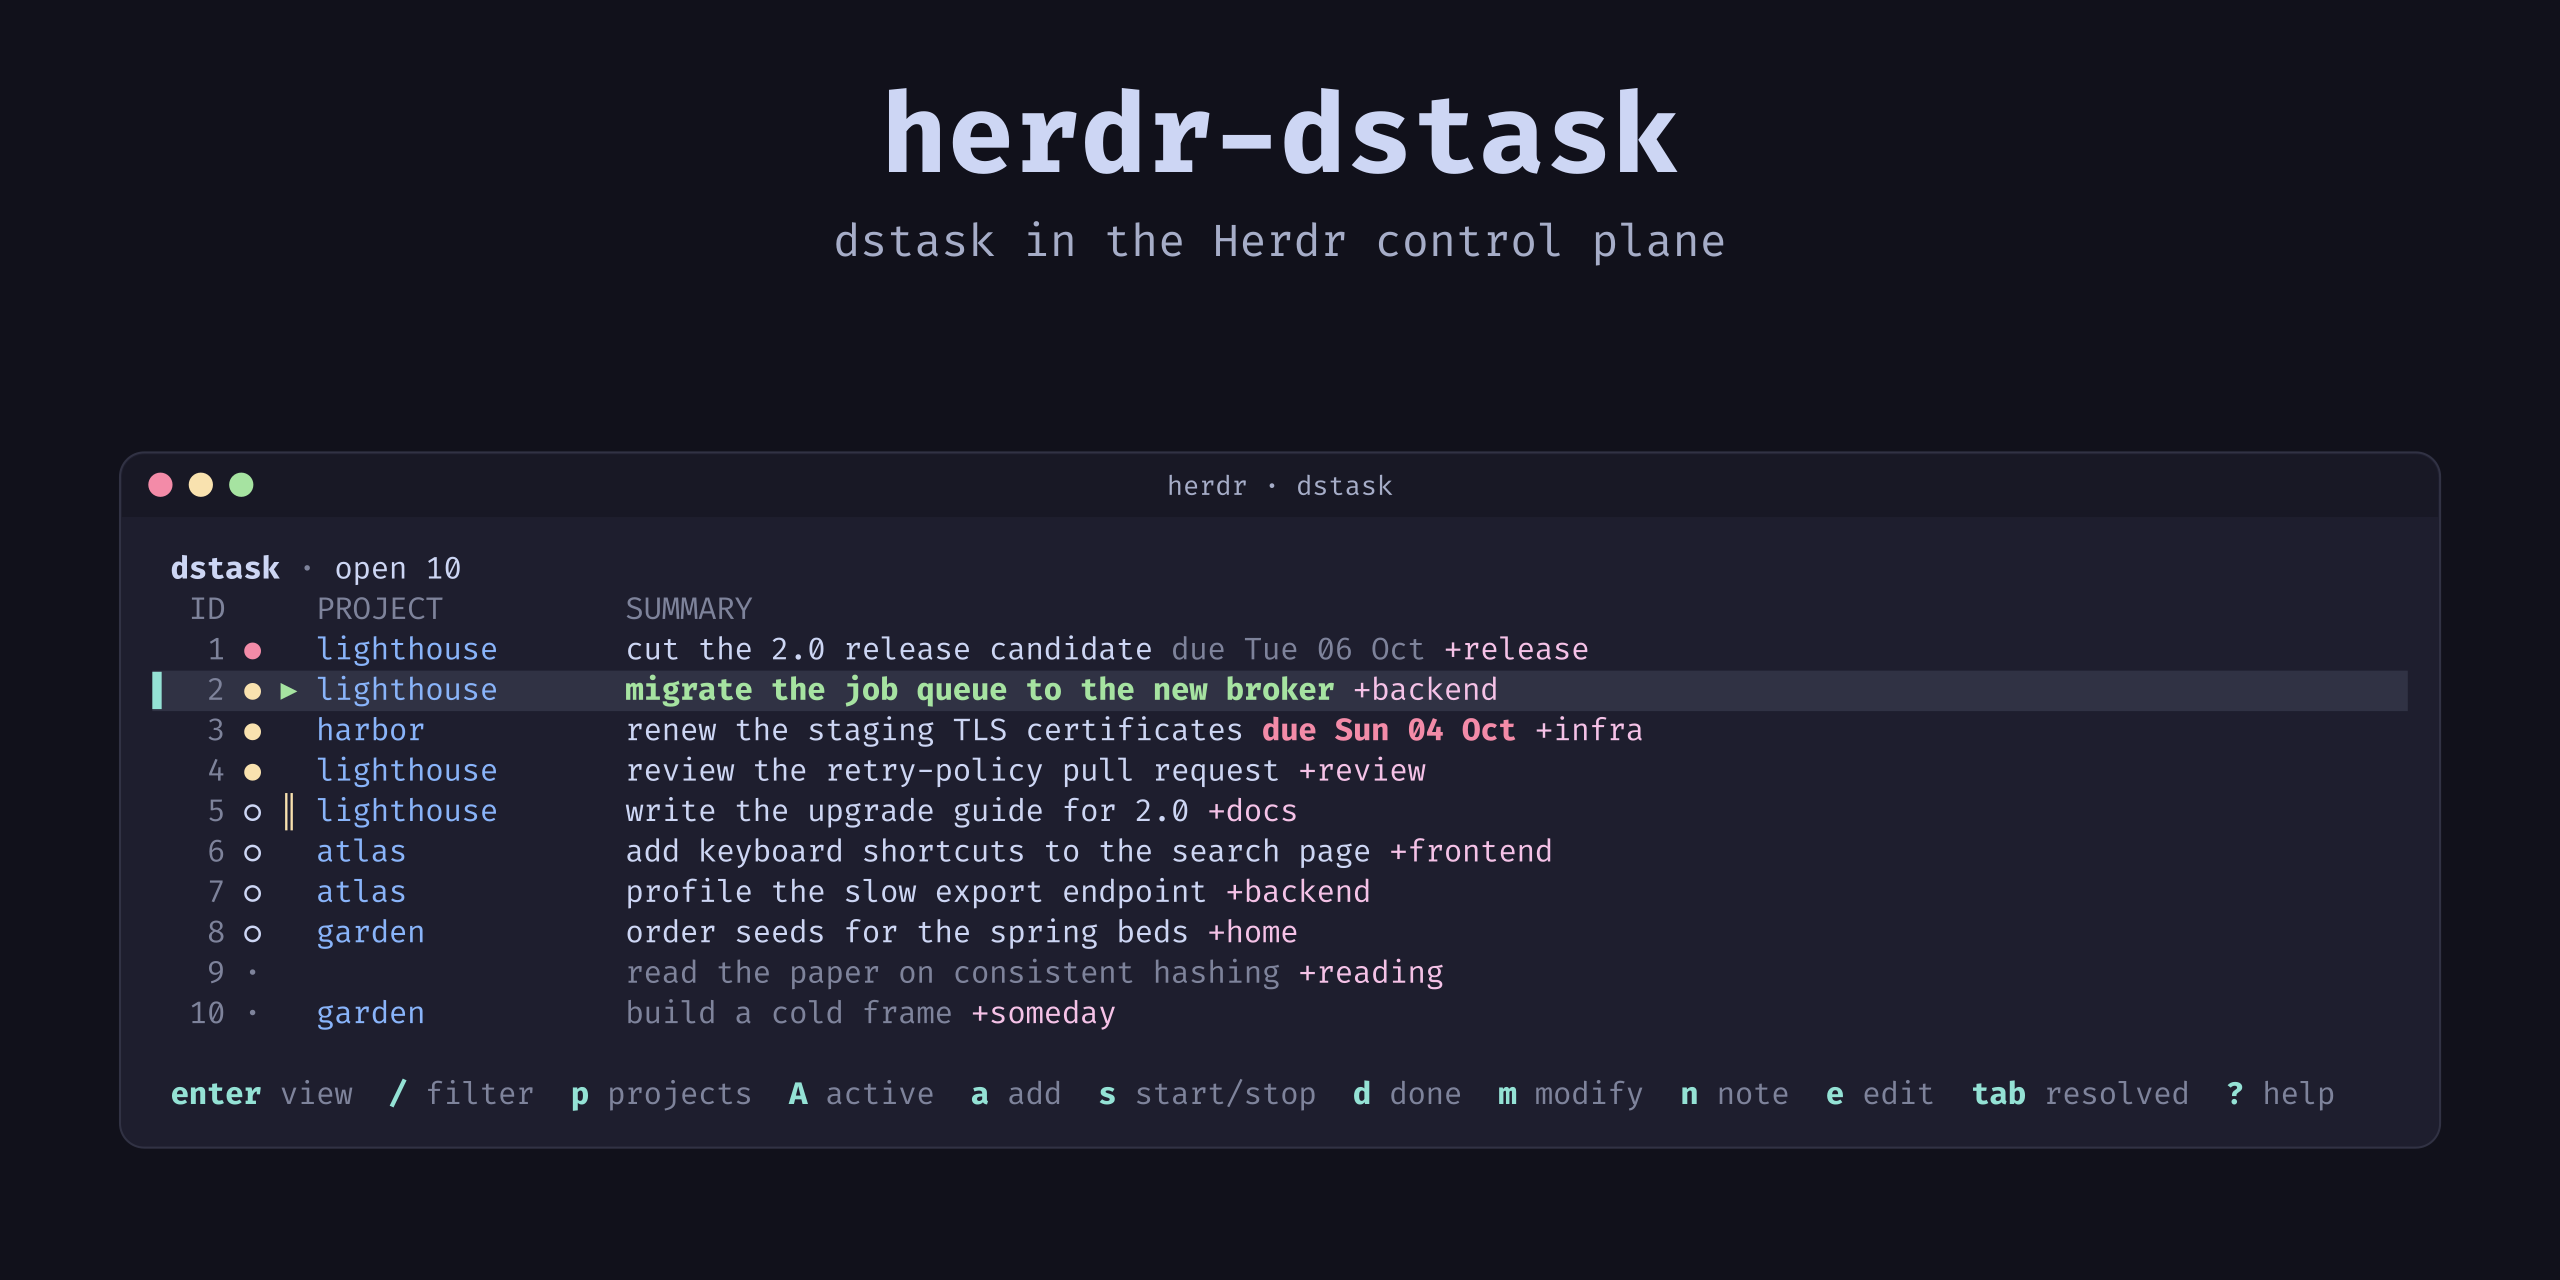
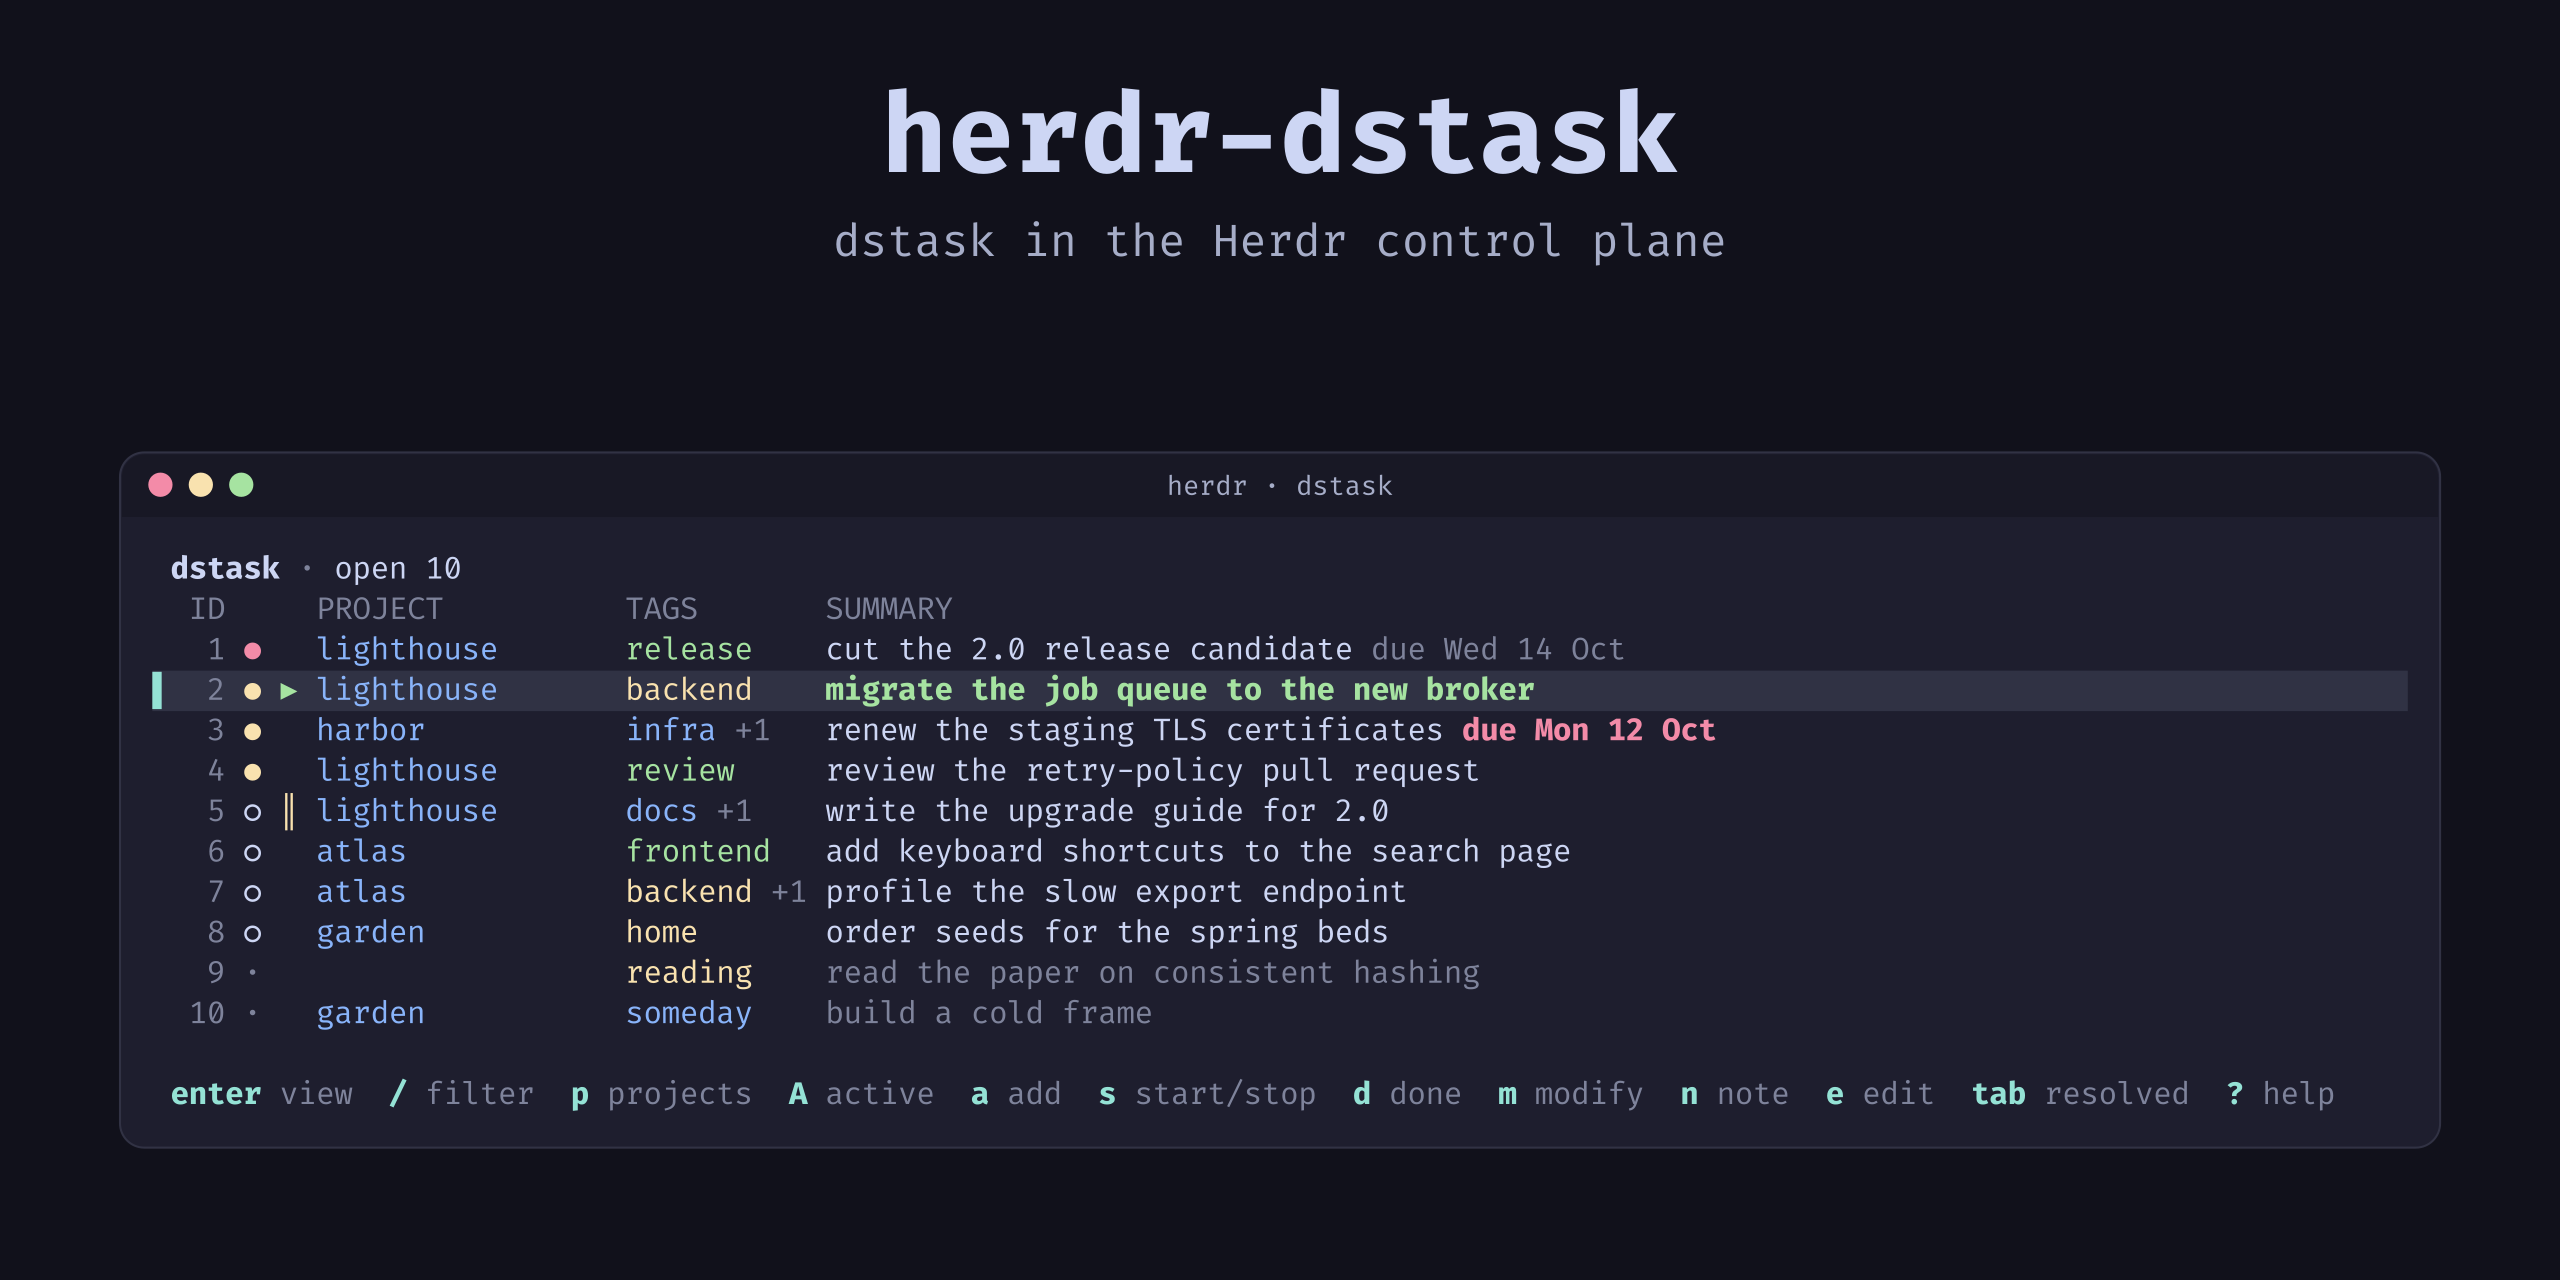
feat: show tags in a column with a color for each tag
Tags came last in the row, after a summary and a due date of different
lengths. They started in a different column on each row, and a narrow pane
cut them off first. All tags had one color.

The list now has a TAGS column between the project and the summary. It
shows the first tag by name and a dim "+N" for the others. Each tag gets a
color from a hash of its name, and the task view lists every tag in the
same colors, so the two views match. Red is not used for tags.

Three fixture tasks now have two tags, so the screenshots show the "+N"
count.

Claude-Session: https://claude.ai/code/session_01UfTax1Cn5zH8NJbVmqgWuJ

Changed region(s): [[0.25, 0.4688, 0.6875, 0.8125]]

diff --git a/internal/ui/view.go b/internal/ui/view.go
@@ -2,6 +2,7 @@ package ui
 
 import (
 	"fmt"
+	"hash/fnv"
 	"strings"
 	"time"
 
@@ -30,6 +31,25 @@ var (
 	styleBarDone  = lipgloss.NewStyle().Foreground(lipgloss.Color("2"))
 )
 
+// tagPalette gives each tag a color of its own. Red is left out, because it
+// means critical, late or an error. The bright indexes keep tags apart from
+// the green, yellow, blue and cyan that carry other meanings, in a theme
+// whose bright colors differ. Catppuccin makes them the same, so there two
+// tags can share a color, and a tag can look like a project.
+var tagPalette = []lipgloss.Color{"10", "11", "12", "13", "14"}
+
+// maxTagWidth caps the TAGS column, so a long tag cannot push the summary off
+// the row.
+const maxTagWidth = 14
+
+// tagStyle is the color of a tag: a hash of its name, so a tag has the same
+// color in every row, in the task view and in every session.
+func tagStyle(tag string) lipgloss.Style {
+	h := fnv.New32a()
+	h.Write([]byte(tag))
+	return lipgloss.NewStyle().Foreground(tagPalette[h.Sum32()%uint32(len(tagPalette))])
+}
+
 // View renders the current mode.
 func (m Model) View() string {
 	switch m.mode {
@@ -54,7 +74,8 @@ func (m Model) viewList() string {
 	var b strings.Builder
 	b.WriteString(m.header())
 	b.WriteByte('\n')
-	b.WriteString(styleDim.Render(fit(fmt.Sprintf("  %*s %-1s %-1s %-16s %s", m.idWidth(), "ID", "", "", "PROJECT", "SUMMARY"), m.width)))
+	heading := fmt.Sprintf("  %*s %-1s %-1s %-16s %-*s %s", m.idWidth(), "ID", "", "", "PROJECT", m.tagWidth(), "TAGS", "SUMMARY")
+	b.WriteString(styleDim.Render(fit(heading, m.width)))
 	b.WriteByte('\n')
 
 	rows := m.listRows()
@@ -168,14 +189,59 @@ func (m Model) row(t dstask.Task, selected bool) string {
 		seg(priorityStyle(t.Priority), priorityMark(t.Priority)) + sp +
 		seg(glyphStyle, glyph) + sp +
 		seg(styleProject, fmt.Sprintf("%-16s", ansi.Truncate(t.Project, 16, "…"))) + sp +
+		m.tagCell(t, base) + sp +
 		seg(summaryStyle(t), t.Summary)
 	if due, st := m.due(t); due != "" {
 		line += sp + seg(st, due)
 	}
-	for _, tag := range t.Tags {
-		line += sp + seg(styleTag, "+"+tag)
-	}
 	return fill(line, m.width, base)
+}
+
+// tagWidth is the width of the TAGS column: the widest first tag with its
+// "+N", capped at maxTagWidth. It follows every loaded task, as idWidth does,
+// so the column does not move while a filter narrows the list.
+func (m Model) tagWidth() int {
+	w := len("TAGS")
+	for _, t := range m.all {
+		if len(t.Tags) > 0 {
+			w = max(w, ansi.StringWidth(t.Tags[0])+len(moreTags(t)))
+		}
+	}
+	return min(w, maxTagWidth)
+}
+
+// moreTags is " +N" for the tags after the first, which the row has no room
+// for. The task view lists them all.
+func moreTags(t dstask.Task) string {
+	if len(t.Tags) < 2 {
+		return ""
+	}
+	return fmt.Sprintf(" +%d", len(t.Tags)-1)
+}
+
+// tagCell is the first tag in its color and a dim "+N" for the rest, padded
+// to the column. dstask keeps tags in alphabetical order, so the first tag is
+// the first by name.
+func (m Model) tagCell(t dstask.Task, base lipgloss.Style) string {
+	w := m.tagWidth()
+	if len(t.Tags) == 0 {
+		return base.Render(strings.Repeat(" ", w))
+	}
+	more := moreTags(t)
+	first := ansi.Truncate(t.Tags[0], w-len(more), "…")
+	pad := w - ansi.StringWidth(first) - len(more)
+	return tagStyle(t.Tags[0]).Inherit(base).Render(first) +
+		styleDim.Inherit(base).Render(more) +
+		base.Render(strings.Repeat(" ", pad))
+}
+
+// tagList is every tag in the color the list gives it, for the task view.
+func tagList(tags []string) string {
+	out := make([]string, len(tags))
+	for i, tag := range tags {
+		out[i] = tagStyle(tag).Render(tag)
+	}
+	return strings.Join(out, styleDim.Render(" · "))
 }
 
 // idWidth is the length of the longest ID in the loaded list, and never less
@@ -372,11 +438,7 @@ func (m Model) detailBody(t dstask.Task) string {
 		b.WriteString(field("project", styleProject.Render(t.Project)))
 	}
 	if len(t.Tags) > 0 {
-		tags := make([]string, len(t.Tags))
-		for i, tag := range t.Tags {
-			tags[i] = styleTag.Render("+" + tag)
-		}
-		b.WriteString(field("tags", strings.Join(tags, " ")))
+		b.WriteString(field("tags", tagList(t.Tags)))
 	}
 	if due := m.dueLabel(t); due != "" {
 		b.WriteString(field("due", due))

diff --git a/internal/ui/view_test.go b/internal/ui/view_test.go
@@ -9,6 +9,7 @@ import (
 
 	tea "github.com/charmbracelet/bubbletea"
 	"github.com/charmbracelet/lipgloss"
+	"github.com/charmbracelet/x/ansi"
 	"github.com/naggie/dstask"
 )
 
@@ -147,7 +148,7 @@ func TestDetailBodyShowsEveryField(t *testing.T) {
 		Notes:    "line one\nline two",
 	}
 	body := m.detailBody(task)
-	for _, want := range []string{"resolved", "P0", "+a", "+b", "due", "3d ago", "5h ago", "u-1", "line two"} {
+	for _, want := range []string{"resolved", "P0", "a · b", "due", "3d ago", "5h ago", "u-1", "line two"} {
 		if !strings.Contains(body, want) {
 			t.Errorf("body lacks %q", want)
 		}
@@ -323,6 +324,9 @@ func TestColorsArePaletteIndexes(t *testing.T) {
 		"critical": styleCritical, "high": styleHigh, "active": styleActive, "paused": stylePaused,
 		"project": styleProject, "tag": styleTag, "overdue": styleOverdue, "error": styleError,
 		"ok": styleOK, "key": styleKey,
+	}
+	for _, c := range tagPalette {
+		styles["tag "+string(c)] = lipgloss.NewStyle().Foreground(c)
 	}
 	for name, st := range styles {
 		c, ok := st.GetForeground().(lipgloss.Color)
@@ -523,5 +527,54 @@ func TestFilterReturnsToTheFirstPage(t *testing.T) {
 	m = drive(t, m, typed("task 3")...)
 	if m.offset != 0 || m.cursor != 0 {
 		t.Errorf("filtering should start at the first page: cursor=%d offset=%d", m.cursor, m.offset)
+	}
+}
+
+// The TAGS column shows the first tag and a count of the rest, and every row
+// starts its summary in the same column, with or without tags.
+func TestTagColumn(t *testing.T) {
+	open := tasks()
+	open[0].Tags = []string{"backend", "performance"}
+	open[1].Tags = nil
+	open[2].Tags = []string{"a-very-long-tag-name"}
+	m := start(t, &fake{open: open})
+	lines := strings.Split(m.View(), "\n")
+	heading := lines[1]
+	col := strings.Index(heading, "SUMMARY")
+	if tags := strings.Index(heading, "TAGS"); tags < 0 || tags > col {
+		t.Fatalf("TAGS must come before SUMMARY: %q", heading)
+	}
+	for i, task := range open {
+		row := lines[2+i]
+		if got := ansi.StringWidth(row[:strings.Index(row, task.Summary)]); got != col {
+			t.Errorf("row %d: summary at %d, want %d: %q", i, got, col, row)
+		}
+	}
+	if !strings.Contains(lines[2], "backend +1") || strings.Contains(lines[2], "performance") {
+		t.Errorf("the row shows the first tag and a count: %q", lines[2])
+	}
+	if !strings.Contains(lines[4], "a-very-long-t…") {
+		t.Errorf("a long tag is cut at the column width: %q", lines[4])
+	}
+	if strings.Contains(m.View(), "+backend") {
+		t.Errorf("the column needs no + before a tag")
+	}
+}
+
+// A tag keeps its color everywhere, and the color never comes from red.
+func TestTagColorIsStable(t *testing.T) {
+	if tagStyle("backend").GetForeground() != tagStyle("backend").GetForeground() {
+		t.Errorf("one tag must always get one color")
+	}
+	seen := map[lipgloss.TerminalColor]bool{}
+	for _, tag := range []string{"backend", "docs", "home", "infra", "release", "review", "someday"} {
+		c := tagStyle(tag).GetForeground()
+		if c == lipgloss.Color("1") || c == lipgloss.Color("9") {
+			t.Errorf("%s: red is for alarms, not tags", tag)
+		}
+		seen[c] = true
+	}
+	if len(seen) < 2 {
+		t.Errorf("different tags should spread over the palette")
 	}
 }

diff --git a/tools/demofixture/main.go b/tools/demofixture/main.go
@@ -25,11 +25,11 @@ import (
 var tasks = []string{
 	"P0 +release project:lighthouse due:tomorrow cut the 2.0 release candidate",
 	"P1 +backend project:lighthouse migrate the job queue to the new broker",
-	"P1 +infra project:harbor due:yesterday renew the staging TLS certificates",
+	"P1 +infra +security project:harbor due:yesterday renew the staging TLS certificates",
 	"P1 +review project:lighthouse review the retry-policy pull request",
-	"P2 +docs project:lighthouse write the upgrade guide for 2.0",
+	"P2 +docs +release project:lighthouse write the upgrade guide for 2.0",
 	"P2 +frontend project:atlas add keyboard shortcuts to the search page",
-	"P2 +backend project:atlas profile the slow export endpoint",
+	"P2 +backend +performance project:atlas profile the slow export endpoint",
 	"P2 +home project:garden order seeds for the spring beds",
 	"P3 +reading read the paper on consistent hashing",
 	"P3 +someday project:garden build a cold frame",

diff --git a/AGENTS.md b/AGENTS.md
@@ -80,6 +80,14 @@ The priority column is a one-column dot: `●` for P0 and P1, `○` for P2, `·`
 for P3, colored by priority. Do not use emoji. They carry their own colors,
 which ignore the theme.
 
+A tag gets its color from a hash of its name, so it has the same color in
+the list and in the task view. `tagPalette` holds only the bright indexes 10
+to 14. Red never marks a tag, because red means critical, late or an error.
+Catppuccin Mocha, Herdr's default, makes each bright color the same as its
+normal color, so a tag there can share a color with a project or an active
+task. The TAGS column keeps them apart by position. dstask sorts tags by
+name, so the column shows the first tag by name, not the first tag typed.
+
 ## Releasing
 
 The setup is the same as in herdr-switcher-plus. A conventional commit on

diff --git a/README.md b/README.md
@@ -41,8 +41,12 @@ description = "dstask tasks"
 
 ## The list
 
-Each row shows the ID, a priority dot, a status mark, the project, the
-summary, the due date and the tags.
+Each row shows the ID, a priority dot, a status mark, the project, the tags,
+the summary and the due date.
+
+The TAGS column shows the first tag by name. When a task has more tags, a dim
+`+N` gives the count of the others, and the task view lists all of them. Each
+tag has a color of its own, the same in the list and in the task view.
 
 | mark | meaning |
 |---|---|
